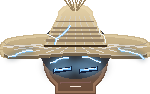
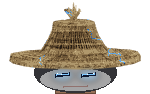
Cut Lightning's hat from the HD render instead of drawing it
The hand-drawn hat was standing in for this: an approximation of a prop the
project already owns as a render. tools/hat_cut.py keys the white plate off
hat_hd7.png, crops to the hat, scales it into the head canvas and snaps it onto
the same straw and bolt ramps the rest of the art uses, so the woven bands and
the veins over them are the real ones.

The skull, the shadow the brim throws and the eyes are still drawn in
lightning_art.head, since those need flat sprite tones. The brim now comes down
to the eye line, so the face is a dark shape with two lit slits under it.

diff --git a/tools/lightning_art.py b/tools/lightning_art.py
@@ -27,6 +27,7 @@ from PIL import Image, ImageChops, ImageDraw, ImageFilter
 sys.path.insert(0, os.path.dirname(os.path.abspath(__file__)))
 
 import char_rig
+import hat_cut
 
 ROOT = os.path.dirname(os.path.dirname(os.path.abspath(__file__)))
 PARTS = os.path.join(ROOT, "art_src", "chars", "lightning", "parts")
@@ -205,111 +206,51 @@ def pelvis():
 def head():
     """The hat hides the face; only two blue eyes burn out of its shade.
 
-    Rewritten to the second concept sheet. The hat is no longer a shallow dish
-    sitting on his brow: it is a broad woven brim that comes down over the eyes,
-    with a truncated cone crown and a fan of straw out of the top. Underneath,
-    the face is sunk in the brim's shadow and the only lit things on it are the
-    eyes, which is the look in both the painted sheet and the film still.
+    The hat is not drawn here. It is cut from the HD render in
+    ``concept_art/fighters/lightning`` by ``tools/hat_cut.py``, because the
+    render is the real prop and its banded weave and straw fan survive the
+    reduction better than a redrawing did. Everything else - the skull, the
+    shadow the brim throws over it, the eyes - is flat sprite tones drawn here,
+    since those have to sit on the character's palette. The brim comes down to
+    the eye line, so at fighting distance he is a hat with two lit slits.
     """
     W, H = 150, 94
     img = _blank((W, H))
 
     # --- neck, so the head meets the shoulders instead of hovering ----------
     neck = Image.new("L", (W, H), 0)
-    ImageDraw.Draw(neck).rectangle([62, 72, 88, 94], fill=255)
+    ImageDraw.Draw(neck).rectangle([62, 70, 88, 94], fill=255)
     img.alpha_composite(char_rig._shade(neck, SKIN_DK, SKIN, SKIN_DEEP))
 
-    # --- skull, then the brim's shadow laid over nearly all of it -----------
+    # --- skull, nearly all of it lost in the brim's shadow ------------------
     face = Image.new("L", (W, H), 0)
     fd = ImageDraw.Draw(face)
-    fd.ellipse([44, 26, 106, 92], fill=255)
-    fd.rectangle([56, 56, 94, 92], fill=255)
+    fd.ellipse([44, 30, 106, 92], fill=255)
+    fd.rectangle([56, 58, 94, 92], fill=255)
     img.alpha_composite(char_rig._shade(face, (150, 110, 86),
                                        (196, 150, 118), SKIN_DEEP))
     d = ImageDraw.Draw(img)
-    d.ellipse([40, 22, 110, 78], fill=(12, 12, 18, 210))        # brim shadow
-    d.line([(60, 82), (90, 81)], fill=(104, 54, 46, 200), width=2)   # mouth
-    d.line([(70, 86), (80, 86)], fill=SKIN_LIT + (90,), width=1)     # chin
+    d.ellipse([34, 52, 116, 92], fill=(10, 10, 15, 212))        # brim shadow
+    d.ellipse([40, 68, 110, 90], fill=(6, 6, 9, 92))            # deepest, at the jaw
+    d.line([(63, 86), (87, 85)], fill=(96, 50, 44, 175), width=2)    # mouth
 
-    # --- the only lit thing under the hat ----------------------------------
+    # --- the hat, straight out of the render -------------------------------
+    hat_img = hat_cut.hat(134, 68)
+    img.alpha_composite(hat_img, ((W - hat_img.width) // 2,
+                                  70 - hat_img.height))
+
+    # --- the only lit thing under it ---------------------------------------
     for cx in (62, 88):
         glow = _blank((W, H))
-        ImageDraw.Draw(glow).ellipse([cx - 17, 55, cx + 17, 77],
-                                     fill=BOLT + (120,))
-        img.alpha_composite(glow.filter(ImageFilter.GaussianBlur(4)))
+        ImageDraw.Draw(glow).ellipse([cx - 11, 69, cx + 11, 81],
+                                     fill=BOLT + (105,))
+        img.alpha_composite(glow.filter(ImageFilter.GaussianBlur(3)))
     d = ImageDraw.Draw(img)
     for cx, sgn in ((62, -1), (88, 1)):
-        d.line([(cx - 9, 71), (cx + 9, 68)], fill=(16, 28, 56, 255), width=5)
-        d.line([(cx - 8, 70), (cx + 8, 68)], fill=BOLT + (255,), width=3)
-        d.line([(cx - 4, 69), (cx + 5, 68)], fill=BOLT_CORE + (255,), width=1)
-        d.point([(cx + sgn * 7, 68)], fill=(255, 255, 255, 255))
-    # lashes drawn as little arcs, the way the sheet draws them
-    _stroke(img, _zig(50, 62, 68, 57, 4, 2, 0.6), width=2)
-    _stroke(img, _zig(100, 62, 82, 57, 4, 2, 1.6), width=2)
-
-    # --- brim: broad and drooping, the rim turned down and woven -----------
-    # The new sheet's hat is not a flat plate: the brim sags away from the
-    # crown and its outer rim curls down, thick and dark, so the silhouette
-    # reads as a bell rather than a disc.
-    brim = Image.new("L", (W, H), 0)
-    bd = ImageDraw.Draw(brim)
-    rx = 71.0
-    bd.ellipse([75 - rx, 34, 75 + rx, 50], fill=255)             # top surface
-    front, lip = [], []
-    for i in range(61):                                          # sagging rim
-        x = 4 + 2 * rx * i / 60
-        u = (x - 75) / rx
-        y = 42 + 8 * math.sqrt(max(0.0, 1 - u * u))               # near edge
-        front.append((x, y))
-        lip.append((x, y + 4 + 9 * abs(u) ** 1.2))                # rolled over
-    bd.polygon(front + lip[::-1], fill=255)
-    bd.ellipse([0, 42, 10, 56], fill=255)                        # rounded ends
-    bd.ellipse([140, 42, 150, 56], fill=255)
-    img.alpha_composite(char_rig._shade(brim, STRAW, STRAW_LIT, STRAW_DK))
-    d = ImageDraw.Draw(img)
-    for ry in (0.44, 0.30, 0.17):                                # concentric weave
-        d.arc([75 - 74 * ry, 42 - 8 * ry, 75 + 74 * ry, 42 + 8 * ry],
-              202, 338, fill=STRAW_DK + (110,), width=1)
-    for i in range(15):                                          # radial weave
-        a = math.pi * (0.05 + 0.9 * i / 14)
-        x, y = 75 + math.cos(a) * 72, 45 + math.sin(a) * 8
-        d.line([(75 + (x - 75) * 0.5, 42 + (y - 42) * 0.5), (x, y)],
-               fill=STRAW_DK + (60,), width=1)
-    d.line(lip, fill=(94, 72, 44, 215), width=3)                 # dark rolled rim
-    d.line([(x, y - 2) for x, y in lip], fill=STRAW_DK + (120,), width=1)
-    d.line(front, fill=(120, 96, 62, 150), width=1)
-
-    # --- crown: tall woven cone, banded, straw bursting out of the top -----
-    crown = Image.new("L", (W, H), 0)
-    cd = ImageDraw.Draw(crown)
-    cd.polygon([(44, 45), (106, 45), (91, 15), (59, 15)], fill=255)
-    cd.ellipse([59, 5, 91, 23], fill=255)
-    img.alpha_composite(char_rig._shade(crown, STRAW, STRAW_LIT, STRAW_DK))
-    d = ImageDraw.Draw(img)
-    for i in range(7):                                           # vertical weave
-        t = i / 6.0
-        d.line([(46 + 58 * t, 44), (61 + 28 * t, 16)],
-               fill=STRAW_DK + (95,), width=1)
-    for yb, w in ((21, 1), (27, 2), (31, 2), (35, 2), (40, 3)):   # banded weave
-        half = 15 + (yb - 15) * 0.533
-        d.line([(75 - half, yb), (75 + half, yb)],
-               fill=(116, 90, 56, 195), width=w)
-    d.line([(44, 45), (106, 45)], fill=HATBAND + (255,), width=2)   # base binding
-
-    # --- straw fan out of the crown ---------------------------------------
-    for i in range(11):
-        a = -1.0 + 2.0 * i / 10
-        d.line([(75 + math.sin(a) * 3, 10),
-                (75 + math.sin(a) * 13, 10 - (7 + 5 * math.cos(a)))],
-               fill=STRAW_DK + (235,), width=1)
-    d.line([(75, 11), (75, 3)], fill=STRAW_LIT + (210,), width=1)
-
-    # --- current crawling over the hat -------------------------------------
-    _stroke(img, _zig(8, 56, 32, 50, 4, 3, 0.4), width=2)
-    _stroke(img, _zig(118, 48, 143, 58, 4, 3, 1.9), width=2)
-    _stroke(img, _zig(55, 44, 70, 25, 4, 2, 2.6), width=2, glow=False)
-    _stroke(img, _zig(97, 24, 105, 42, 4, 2, 0.9), width=1, glow=False)
-    _stroke(img, _zig(46, 33, 58, 39, 3, 2, 1.4), width=1, glow=False)
+        d.line([(cx - 7, 75), (cx + 7, 73)], fill=(12, 22, 46, 255), width=4)
+        d.line([(cx - 6, 74), (cx + 6, 73)], fill=BOLT + (255,), width=2)
+        d.point([(cx - 1, 74)], fill=BOLT_CORE + (255,))
+        d.point([(cx + sgn * 5, 73)], fill=(255, 255, 255, 255))
     return img
 
 

diff --git a/tools/hat_cut.py b/tools/hat_cut.py
@@ -1,0 +1,146 @@
+"""Cut Lightning's hat out of the HD render and restyle it for the sprite rig.
+
+Every other part of Lightning is drawn by ``lightning_art.py``, but the hat is
+the one piece that should come from the source art: it is a 3D render of the
+real hat, and at hat size the banded weave and the straw fan survive the
+reduction better than a redrawn copy did.
+
+The render sits on a white plate, so the background is keyed out by how close a
+pixel is to white, the result is cropped to the hat, scaled down, and then
+snapped onto a short ramp of the same straw tones the rest of the art uses so
+it sits next to the hand-drawn robe instead of looking pasted on. The blue
+veins running over the weave are kept on their own small blue ramp.
+
+Run:  python3 tools/hat_cut.py           (writes the cut and a size check)
+      python3 tools/lightning_art.py     (uses it for the head)
+"""
+
+from __future__ import annotations
+
+import os
+import sys
+
+from PIL import Image, ImageFilter
+
+ROOT = os.path.dirname(os.path.dirname(os.path.abspath(__file__)))
+SOURCE = os.path.join(ROOT, "concept_art", "fighters", "lightning", "hat_hd7.png")
+CUT = os.path.join(ROOT, "art_src", "chars", "lightning", "hat_cut.png")
+
+# The straw ramp, darkest first. The last two tones are the lit top of the
+# brim; the first two are the shadowed weave under the crown.
+STRAW_RAMP = [
+    (36, 26, 18),
+    (74, 56, 34),
+    (110, 86, 54),
+    (146, 120, 80),
+    (176, 152, 108),
+    (206, 184, 140),
+    (232, 214, 172),
+]
+# Where the lightning veins land: deep blue through to white-hot.
+BOLT_RAMP = [
+    (28, 62, 112),
+    (52, 108, 176),
+    (96, 164, 224),
+    (168, 214, 248),
+    (232, 248, 255),
+]
+
+
+def load_source():
+    if not os.path.exists(SOURCE):
+        raise SystemExit("hat source missing: %s" % SOURCE)
+    return Image.open(SOURCE).convert("RGBA")
+
+
+def matte(im):
+    """Drop the white plate the hat was rendered on."""
+    w, h = im.size
+    px = im.load()
+    mask = Image.new("L", (w, h), 0)
+    mp = mask.load()
+    for y in range(h):
+        for x in range(w):
+            r, g, b, a = px[x, y]
+            if a < 8:
+                continue
+            # Straw is saturated; the plate is not. Anything whose darkest
+            # channel is nearly white is background.
+            if min(r, g, b) > 232:
+                continue
+            mp[x, y] = a
+    # A pixel of erosion kills the pale halo the render left around the brim.
+    mask = mask.filter(ImageFilter.MinFilter(3)).filter(ImageFilter.GaussianBlur(0.6))
+    out = im.copy()
+    out.putalpha(mask)
+    return out
+
+
+def cut(im=None):
+    """Keyed, cropped hat at source resolution."""
+    im = matte(im or load_source())
+    box = im.getchannel("A").getbbox()
+    if box is None:
+        raise SystemExit("nothing left after keying the source")
+    return im.crop(box)
+
+
+def restyle(im):
+    """Snap the render onto the sprite palette, keeping the veins blue."""
+    w, h = im.size
+    out = Image.new("RGBA", (w, h), (0, 0, 0, 0))
+    src = im.load()
+    dst = out.load()
+    for y in range(h):
+        for x in range(w):
+            r, g, b, a = src[x, y]
+            if a < 24:
+                continue
+            lum = 0.299 * r + 0.587 * g + 0.114 * b
+            if b - r > 26 and b > 96:                       # lightning vein
+                t = min(1.0, max(0.0, (lum - 90) / 140))
+                ramp = BOLT_RAMP
+            else:                                            # straw
+                t = min(1.0, max(0.0, (lum - 34) / 200))
+                ramp = STRAW_RAMP
+            dst[x, y] = ramp[round(t * (len(ramp) - 1))] + (a,)
+    return out
+
+
+def hat(max_w, max_h):
+    """The hat scaled to fit a box, bottom of the brim on the box's bottom.
+
+    Returns an RGBA image at most ``max_w`` wide and ``max_h`` tall, with the
+    hat's own proportions kept. Used by ``lightning_art.head``.
+    """
+    im = cut()
+    scale = min(max_w / im.width, max_h / im.height)
+    size = (max(1, round(im.width * scale)), max(1, round(im.height * scale)))
+    small = im.resize(size, Image.LANCZOS)
+    return restyle(small)
+
+
+if __name__ == "__main__":
+    im = load_source()
+    print("source", im.size, "alpha range",
+          im.getchannel("A").getextrema())
+    c = cut(im)
+    print("cut", c.size, "aspect %.2f" % (c.width / c.height))
+    c.save(CUT)
+    print("wrote", os.path.relpath(CUT, ROOT))
+    # size check: the hat at three widths, on a ground line, next to nothing
+    tiles = []
+    for w in (110, 132, 150):
+        h = round(w * c.height / c.width)
+        t = restyle(c.resize((w, h), Image.LANCZOS))
+        tiles.append(t)
+    pad = 8
+    sheet = Image.new("RGBA", (sum(t.width for t in tiles) + pad * 4,
+                               max(t.height for t in tiles) + pad * 2),
+                      (24, 26, 33, 255))
+    x = pad
+    for t in tiles:
+        sheet.alpha_composite(t, (x, sheet.height - pad - t.height))
+        x += t.width + pad
+    sheet.save(os.path.join(ROOT, "artifacts", "hat_cut_check.png"))
+    print("wrote artifacts/hat_cut_check.png")
